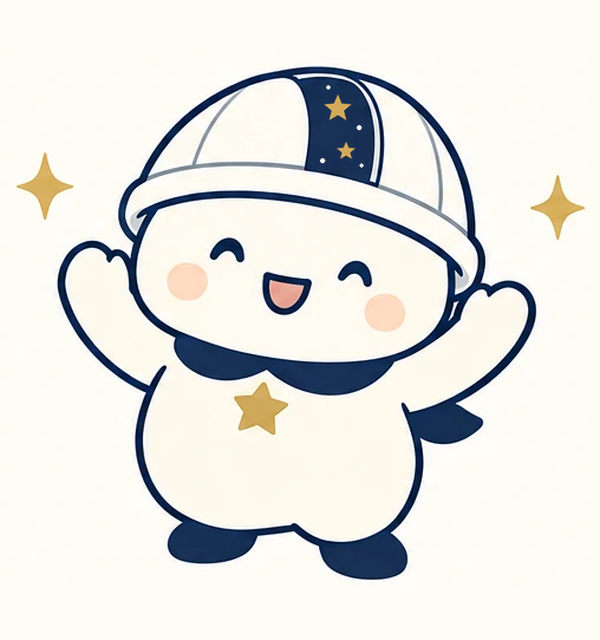
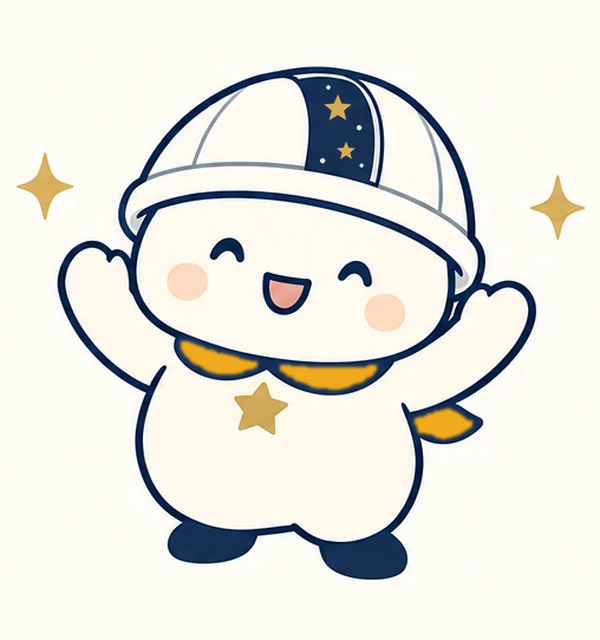
Color Nichiharan's scarf in the observatory's yellow.
Only the inside of the scarf is recolored; the navy outline and the rest
of the original artwork stay as they are.

Claude-Session: https://claude.ai/code/session_012FDEmQ2sqb5v1Ud53WoN39

Changed region(s): [[0.3, 0.5312, 0.63, 0.625], [0.69, 0.625, 0.81, 0.6875]]

diff --git a/docs/mascot/nichiharan-from-reference.py b/docs/mascot/nichiharan-from-reference.py
@@ -1,6 +1,7 @@
 """
 にちはらんのサイト用画像を、新田さん提供の原画(docs/mascot/nichiharan/reference-v2.webp)から切り出す。
-絵の形は変えず、帽子のスリットの中に金の星と星粒を描き足すだけにする。
+絵の形は変えず、帽子のスリットの中に金の星と星粒を描き足し、スカーフ(襟)を日原天文台の建物の黄色に塗り替える。
+スカーフは紺のふち線を残し、中だけを塗る。
 
   python3 docs/mascot/nichiharan-from-reference.py <出力フォルダ>
   → wave.png telescope.png cheer.png hareru.png(背景は原画と同じ生成り色)
@@ -11,28 +12,33 @@ import math
 import sys
 from pathlib import Path
 
-from PIL import Image, ImageDraw
+from PIL import Image, ImageDraw, ImageFilter
 
 SRC = Path(__file__).parent / 'nichiharan' / 'reference-v2.webp'
 GOLD = (210, 170, 88)
 WHITE = (255, 255, 255)
 BG = (253, 252, 245)
+# 日原天文台の建物の黄色(昼の写真 public/images/dome-day.jpg の外壁から)
+YELLOW = (240, 170, 30)
 SS = 4  # なめらかに描くための拡大率
 
 # 原画の中の位置(px)。box は切り出す範囲、stars は (x, y, 半径)、dots は白い星粒 (x, y, 半径)
 FIGURES = {
     'wave': {
         'box': (128, 206, 806, 915),
+        'scarf': (300, 585, 760, 675),
         'stars': [(555, 274, 19), (573, 342, 12)],
         'dots': [(583, 246, 2.6), (543, 308, 3), (592, 314, 2.2), (556, 368, 2.8), (598, 372, 2)],
     },
     'telescope': {
         'box': (970, 40, 1455, 490),
+        'scarf': (1000, 280, 1265, 345),
         'stars': [(1157, 96, 11), (1180, 129, 7)],
         'dots': [(1145, 76, 1.8), (1170, 112, 2), (1188, 104, 1.5), (1162, 140, 1.6)],
     },
     'cheer': {
         'box': (928, 505, 1436, 965),
+        'scarf': (1060, 740, 1345, 845),
         'stars': [(1214, 556, 12), (1221, 592, 8)],
         'dots': [(1206, 538, 1.6), (1232, 572, 2), (1201, 600, 2), (1234, 604, 1.5)],
     },
@@ -48,8 +54,30 @@ def star_points(cx, cy, r, inner=0.45):
     return pts
 
 
+def is_navy(p):
+    r, g, b = p
+    return r < 90 and g < 100 and b > 50 and b - r > 20
+
+
+def paint_scarf(src, box):
+    """box の中の太い紺の面(スカーフ)だけを黄色にする。細いふち線は紺のまま残す"""
+    x0, y0, x1, y1 = box
+    region = src.crop(box)
+    mask = Image.new('L', region.size, 0)
+    rp, mp = region.load(), mask.load()
+    for y in range(region.height):
+        for x in range(region.width):
+            if is_navy(rp[x, y]):
+                mp[x, y] = 255
+    # 線(太さ6px前後)を消して面だけ残し、ふち線の分を残して戻す
+    fill = mask.filter(ImageFilter.MinFilter(13)).filter(ImageFilter.MaxFilter(5)).filter(ImageFilter.GaussianBlur(1.2))
+    yellow = Image.new('RGB', region.size, YELLOW)
+    src.paste(Image.composite(yellow, region, fill), (x0, y0))
+
+
 def build(name, spec):
     src = Image.open(SRC).convert('RGB')
+    paint_scarf(src, spec['scarf'])
     x0, y0, x1, y1 = spec['box']
     # 星は原画座標で描くので、先に原画全体へ重ねてから切り出す
     layer = Image.new('RGBA', (src.width * SS, src.height * SS), (0, 0, 0, 0))

diff --git a/docs/06-mascot.md b/docs/06-mascot.md
@@ -11,9 +11,9 @@
 ## 最新案:にちはらん
 
 新田さん提供のキャラクター案(2026-10-21、`mascot/nichiharan/reference-v2.webp`)を、**絵の形を変えずに**サイトで使う。
-原画から3体を切り出し、**帽子のスリットの中に金の星と白い星粒を描き足す**だけにしている(描き直すと体型が変わってしまうため)。
+原画から3体を切り出し、**帽子のスリットの中に金の星と白い星粒を描き足し、スカーフを日原天文台の建物の黄色(#F0AA1E)に塗り替える**だけにしている(描き直すと体型が変わってしまうため)。
 
-- 作り直し:`python3 docs/mascot/nichiharan-from-reference.py public/images/nichiharan`(星の位置は同ファイルの `FIGURES`)
+- 作り直し:`python3 docs/mascot/nichiharan-from-reference.py public/images/nichiharan`(星の位置とスカーフの範囲は同ファイルの `FIGURES`)
 - キャッチコピー「いっしょに、宇宙をのぞこ!」、口ぐせ「今日は晴れるかなぁ」(新田さん指定)
 
 ![にちはらん](mascot/nichiharan/sheet.png)
